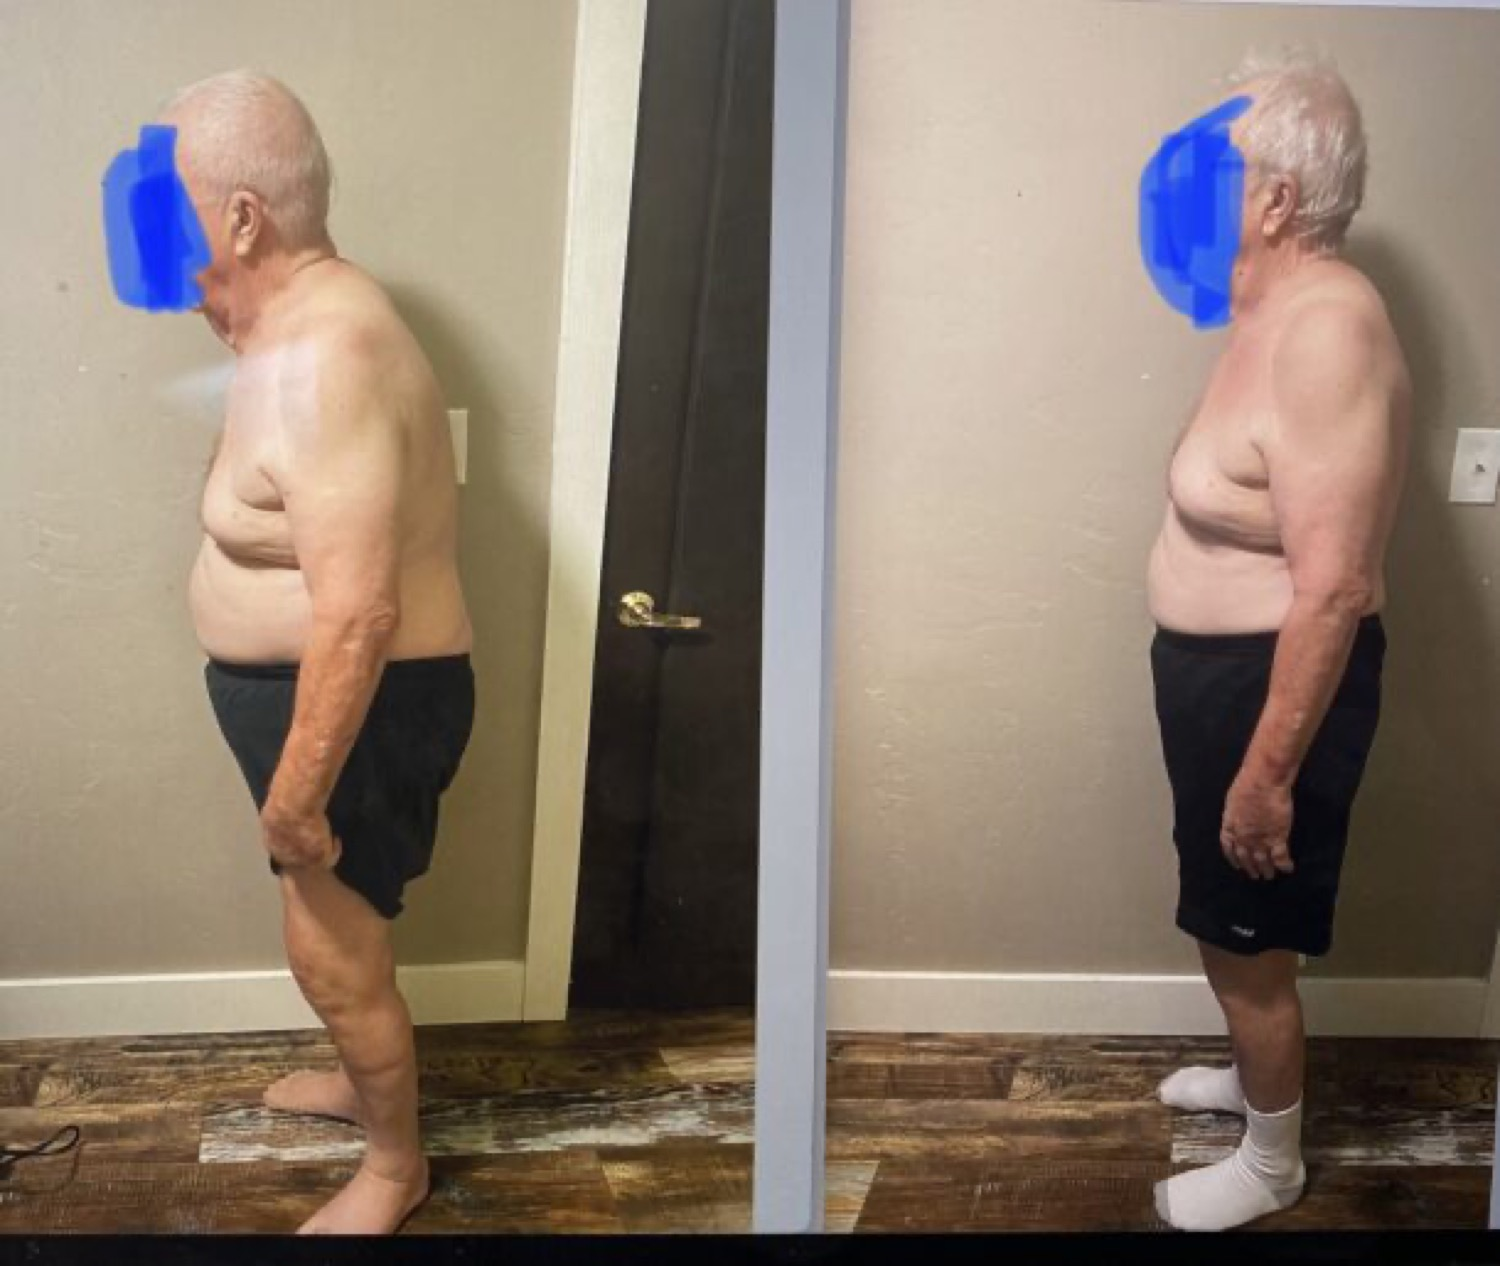
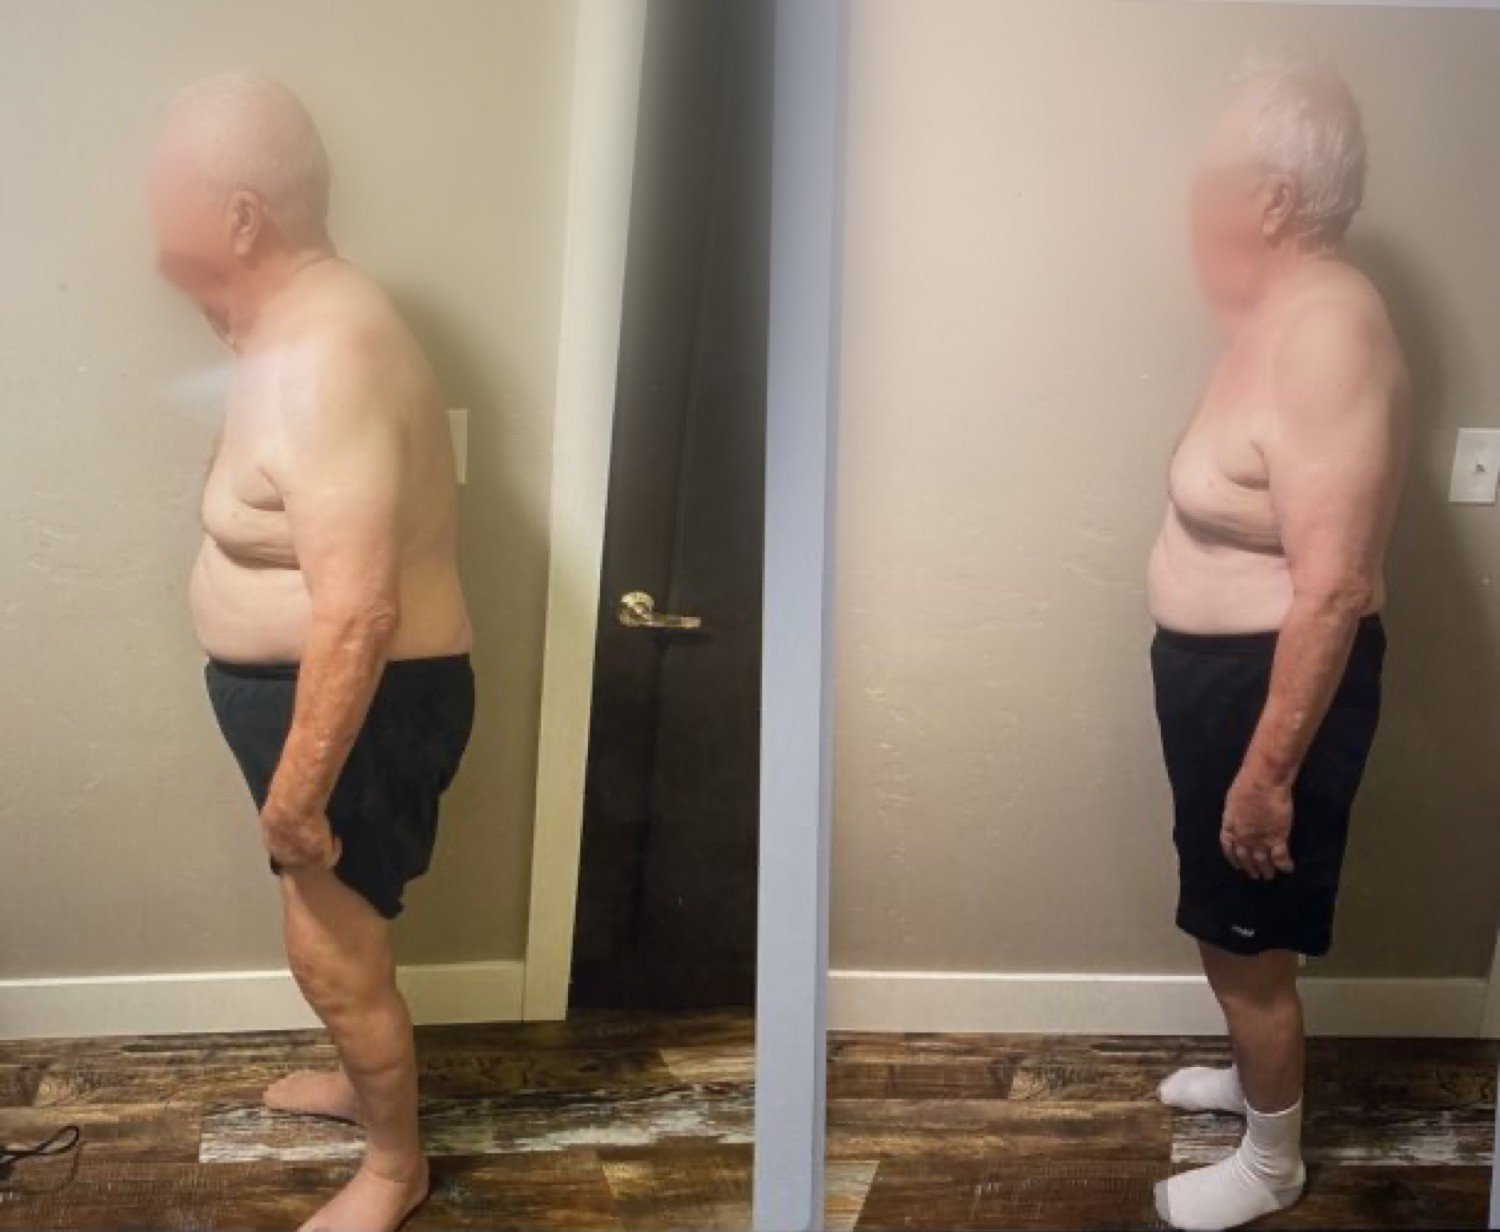
Mending Roots: before/after photos shown whole in their frames, softer face blurs, 'Front' removed, black screen edges cropped

diff --git a/peek/mending-roots/about-mending-roots/index.html b/peek/mending-roots/about-mending-roots/index.html
@@ -1269,6 +1269,11 @@
   .offered a:hover img { transform: translateY(-4px); }
   .offered b { font-family: var(--display); font-weight: 500; font-size: 19px; }
   .doc.cb0 .wrap > img[src*="egoscue"] { margin-inline: auto !important; }
+  .pat-photos { flex-wrap: nowrap !important; gap: 14px; max-width: 560px; margin-inline: auto; }
+  .doc .tint { flex: 1 1 0; width: auto !important; aspect-ratio: auto !important; min-width: 0; }
+  .doc .tint:nth-child(2) { flex-grow: 1.185; }
+  .doc .tint img { position: static !important; width: 100% !important; height: auto !important; object-fit: contain !important; display: block; }
+  .pat-row .pat-photos { margin-inline: 0; max-width: none; }
   .doc details h3::before { margin: 0 auto 8px; }
   .doc details h3 { text-align: center; }
   .pat-photos { display: flex; justify-content: center; gap: 18px; flex-wrap: wrap; margin: 6px auto; }

diff --git a/peek/mending-roots/dolphin-neurostim-mps-therapy/index.html b/peek/mending-roots/dolphin-neurostim-mps-therapy/index.html
@@ -1266,6 +1266,11 @@
   .offered a:hover img { transform: translateY(-4px); }
   .offered b { font-family: var(--display); font-weight: 500; font-size: 19px; }
   .doc.cb0 .wrap > img[src*="egoscue"] { margin-inline: auto !important; }
+  .pat-photos { flex-wrap: nowrap !important; gap: 14px; max-width: 560px; margin-inline: auto; }
+  .doc .tint { flex: 1 1 0; width: auto !important; aspect-ratio: auto !important; min-width: 0; }
+  .doc .tint:nth-child(2) { flex-grow: 1.185; }
+  .doc .tint img { position: static !important; width: 100% !important; height: auto !important; object-fit: contain !important; display: block; }
+  .pat-row .pat-photos { margin-inline: 0; max-width: none; }
   .doc details h3::before { margin: 0 auto 8px; }
   .doc details h3 { text-align: center; }
   .pat-photos { display: flex; justify-content: center; gap: 18px; flex-wrap: wrap; margin: 6px auto; }

diff --git a/peek/mending-roots/events-workshops-classes/index.html b/peek/mending-roots/events-workshops-classes/index.html
@@ -1266,6 +1266,11 @@
   .offered a:hover img { transform: translateY(-4px); }
   .offered b { font-family: var(--display); font-weight: 500; font-size: 19px; }
   .doc.cb0 .wrap > img[src*="egoscue"] { margin-inline: auto !important; }
+  .pat-photos { flex-wrap: nowrap !important; gap: 14px; max-width: 560px; margin-inline: auto; }
+  .doc .tint { flex: 1 1 0; width: auto !important; aspect-ratio: auto !important; min-width: 0; }
+  .doc .tint:nth-child(2) { flex-grow: 1.185; }
+  .doc .tint img { position: static !important; width: 100% !important; height: auto !important; object-fit: contain !important; display: block; }
+  .pat-row .pat-photos { margin-inline: 0; max-width: none; }
   .doc details h3::before { margin: 0 auto 8px; }
   .doc details h3 { text-align: center; }
   .pat-photos { display: flex; justify-content: center; gap: 18px; flex-wrap: wrap; margin: 6px auto; }

diff --git a/peek/mending-roots/health-wellness-coaching/index.html b/peek/mending-roots/health-wellness-coaching/index.html
@@ -1269,6 +1269,11 @@
   .offered a:hover img { transform: translateY(-4px); }
   .offered b { font-family: var(--display); font-weight: 500; font-size: 19px; }
   .doc.cb0 .wrap > img[src*="egoscue"] { margin-inline: auto !important; }
+  .pat-photos { flex-wrap: nowrap !important; gap: 14px; max-width: 560px; margin-inline: auto; }
+  .doc .tint { flex: 1 1 0; width: auto !important; aspect-ratio: auto !important; min-width: 0; }
+  .doc .tint:nth-child(2) { flex-grow: 1.185; }
+  .doc .tint img { position: static !important; width: 100% !important; height: auto !important; object-fit: contain !important; display: block; }
+  .pat-row .pat-photos { margin-inline: 0; max-width: none; }
   .doc details h3::before { margin: 0 auto 8px; }
   .doc details h3 { text-align: center; }
   .pat-photos { display: flex; justify-content: center; gap: 18px; flex-wrap: wrap; margin: 6px auto; }

diff --git a/peek/mending-roots/herbal-wellness-consultations-2/index.html b/peek/mending-roots/herbal-wellness-consultations-2/index.html
@@ -1269,6 +1269,11 @@
   .offered a:hover img { transform: translateY(-4px); }
   .offered b { font-family: var(--display); font-weight: 500; font-size: 19px; }
   .doc.cb0 .wrap > img[src*="egoscue"] { margin-inline: auto !important; }
+  .pat-photos { flex-wrap: nowrap !important; gap: 14px; max-width: 560px; margin-inline: auto; }
+  .doc .tint { flex: 1 1 0; width: auto !important; aspect-ratio: auto !important; min-width: 0; }
+  .doc .tint:nth-child(2) { flex-grow: 1.185; }
+  .doc .tint img { position: static !important; width: 100% !important; height: auto !important; object-fit: contain !important; display: block; }
+  .pat-row .pat-photos { margin-inline: 0; max-width: none; }
   .doc details h3::before { margin: 0 auto 8px; }
   .doc details h3 { text-align: center; }
   .pat-photos { display: flex; justify-content: center; gap: 18px; flex-wrap: wrap; margin: 6px auto; }

diff --git a/peek/mending-roots/humboldt-womens-massage/index.html b/peek/mending-roots/humboldt-womens-massage/index.html
@@ -1269,6 +1269,11 @@
   .offered a:hover img { transform: translateY(-4px); }
   .offered b { font-family: var(--display); font-weight: 500; font-size: 19px; }
   .doc.cb0 .wrap > img[src*="egoscue"] { margin-inline: auto !important; }
+  .pat-photos { flex-wrap: nowrap !important; gap: 14px; max-width: 560px; margin-inline: auto; }
+  .doc .tint { flex: 1 1 0; width: auto !important; aspect-ratio: auto !important; min-width: 0; }
+  .doc .tint:nth-child(2) { flex-grow: 1.185; }
+  .doc .tint img { position: static !important; width: 100% !important; height: auto !important; object-fit: contain !important; display: block; }
+  .pat-row .pat-photos { margin-inline: 0; max-width: none; }
   .doc details h3::before { margin: 0 auto 8px; }
   .doc details h3 { text-align: center; }
   .pat-photos { display: flex; justify-content: center; gap: 18px; flex-wrap: wrap; margin: 6px auto; }

diff --git a/peek/mending-roots/inbody-body-composition-analyzer/index.html b/peek/mending-roots/inbody-body-composition-analyzer/index.html
@@ -1269,6 +1269,11 @@
   .offered a:hover img { transform: translateY(-4px); }
   .offered b { font-family: var(--display); font-weight: 500; font-size: 19px; }
   .doc.cb0 .wrap > img[src*="egoscue"] { margin-inline: auto !important; }
+  .pat-photos { flex-wrap: nowrap !important; gap: 14px; max-width: 560px; margin-inline: auto; }
+  .doc .tint { flex: 1 1 0; width: auto !important; aspect-ratio: auto !important; min-width: 0; }
+  .doc .tint:nth-child(2) { flex-grow: 1.185; }
+  .doc .tint img { position: static !important; width: 100% !important; height: auto !important; object-fit: contain !important; display: block; }
+  .pat-row .pat-photos { margin-inline: 0; max-width: none; }
   .doc details h3::before { margin: 0 auto 8px; }
   .doc details h3 { text-align: center; }
   .pat-photos { display: flex; justify-content: center; gap: 18px; flex-wrap: wrap; margin: 6px auto; }

diff --git a/peek/mending-roots/index.html b/peek/mending-roots/index.html
@@ -1265,6 +1265,11 @@
   .offered a:hover img { transform: translateY(-4px); }
   .offered b { font-family: var(--display); font-weight: 500; font-size: 19px; }
   .doc.cb0 .wrap > img[src*="egoscue"] { margin-inline: auto !important; }
+  .pat-photos { flex-wrap: nowrap !important; gap: 14px; max-width: 560px; margin-inline: auto; }
+  .doc .tint { flex: 1 1 0; width: auto !important; aspect-ratio: auto !important; min-width: 0; }
+  .doc .tint:nth-child(2) { flex-grow: 1.185; }
+  .doc .tint img { position: static !important; width: 100% !important; height: auto !important; object-fit: contain !important; display: block; }
+  .pat-row .pat-photos { margin-inline: 0; max-width: none; }
   .doc details h3::before { margin: 0 auto 8px; }
   .doc details h3 { text-align: center; }
   .pat-photos { display: flex; justify-content: center; gap: 18px; flex-wrap: wrap; margin: 6px auto; }

diff --git a/peek/mending-roots/infrared-sauna-red-light-therapy/index.html b/peek/mending-roots/infrared-sauna-red-light-therapy/index.html
@@ -1269,6 +1269,11 @@
   .offered a:hover img { transform: translateY(-4px); }
   .offered b { font-family: var(--display); font-weight: 500; font-size: 19px; }
   .doc.cb0 .wrap > img[src*="egoscue"] { margin-inline: auto !important; }
+  .pat-photos { flex-wrap: nowrap !important; gap: 14px; max-width: 560px; margin-inline: auto; }
+  .doc .tint { flex: 1 1 0; width: auto !important; aspect-ratio: auto !important; min-width: 0; }
+  .doc .tint:nth-child(2) { flex-grow: 1.185; }
+  .doc .tint img { position: static !important; width: 100% !important; height: auto !important; object-fit: contain !important; display: block; }
+  .pat-row .pat-photos { margin-inline: 0; max-width: none; }
   .doc details h3::before { margin: 0 auto 8px; }
   .doc details h3 { text-align: center; }
   .pat-photos { display: flex; justify-content: center; gap: 18px; flex-wrap: wrap; margin: 6px auto; }

diff --git a/peek/mending-roots/jenniferteixeira/index.html b/peek/mending-roots/jenniferteixeira/index.html
@@ -1269,6 +1269,11 @@
   .offered a:hover img { transform: translateY(-4px); }
   .offered b { font-family: var(--display); font-weight: 500; font-size: 19px; }
   .doc.cb0 .wrap > img[src*="egoscue"] { margin-inline: auto !important; }
+  .pat-photos { flex-wrap: nowrap !important; gap: 14px; max-width: 560px; margin-inline: auto; }
+  .doc .tint { flex: 1 1 0; width: auto !important; aspect-ratio: auto !important; min-width: 0; }
+  .doc .tint:nth-child(2) { flex-grow: 1.185; }
+  .doc .tint img { position: static !important; width: 100% !important; height: auto !important; object-fit: contain !important; display: block; }
+  .pat-row .pat-photos { margin-inline: 0; max-width: none; }
   .doc details h3::before { margin: 0 auto 8px; }
   .doc details h3 { text-align: center; }
   .pat-photos { display: flex; justify-content: center; gap: 18px; flex-wrap: wrap; margin: 6px auto; }

diff --git a/peek/mending-roots/join-our-wellness-collective/index.html b/peek/mending-roots/join-our-wellness-collective/index.html
@@ -1266,6 +1266,11 @@
   .offered a:hover img { transform: translateY(-4px); }
   .offered b { font-family: var(--display); font-weight: 500; font-size: 19px; }
   .doc.cb0 .wrap > img[src*="egoscue"] { margin-inline: auto !important; }
+  .pat-photos { flex-wrap: nowrap !important; gap: 14px; max-width: 560px; margin-inline: auto; }
+  .doc .tint { flex: 1 1 0; width: auto !important; aspect-ratio: auto !important; min-width: 0; }
+  .doc .tint:nth-child(2) { flex-grow: 1.185; }
+  .doc .tint img { position: static !important; width: 100% !important; height: auto !important; object-fit: contain !important; display: block; }
+  .pat-row .pat-photos { margin-inline: 0; max-width: none; }
   .doc details h3::before { margin: 0 auto 8px; }
   .doc details h3 { text-align: center; }
   .pat-photos { display: flex; justify-content: center; gap: 18px; flex-wrap: wrap; margin: 6px auto; }

diff --git a/peek/mending-roots/lena-hyde-nunez/index.html b/peek/mending-roots/lena-hyde-nunez/index.html
@@ -1269,6 +1269,11 @@
   .offered a:hover img { transform: translateY(-4px); }
   .offered b { font-family: var(--display); font-weight: 500; font-size: 19px; }
   .doc.cb0 .wrap > img[src*="egoscue"] { margin-inline: auto !important; }
+  .pat-photos { flex-wrap: nowrap !important; gap: 14px; max-width: 560px; margin-inline: auto; }
+  .doc .tint { flex: 1 1 0; width: auto !important; aspect-ratio: auto !important; min-width: 0; }
+  .doc .tint:nth-child(2) { flex-grow: 1.185; }
+  .doc .tint img { position: static !important; width: 100% !important; height: auto !important; object-fit: contain !important; display: block; }
+  .pat-row .pat-photos { margin-inline: 0; max-width: none; }
   .doc details h3::before { margin: 0 auto 8px; }
   .doc details h3 { text-align: center; }
   .pat-photos { display: flex; justify-content: center; gap: 18px; flex-wrap: wrap; margin: 6px auto; }
